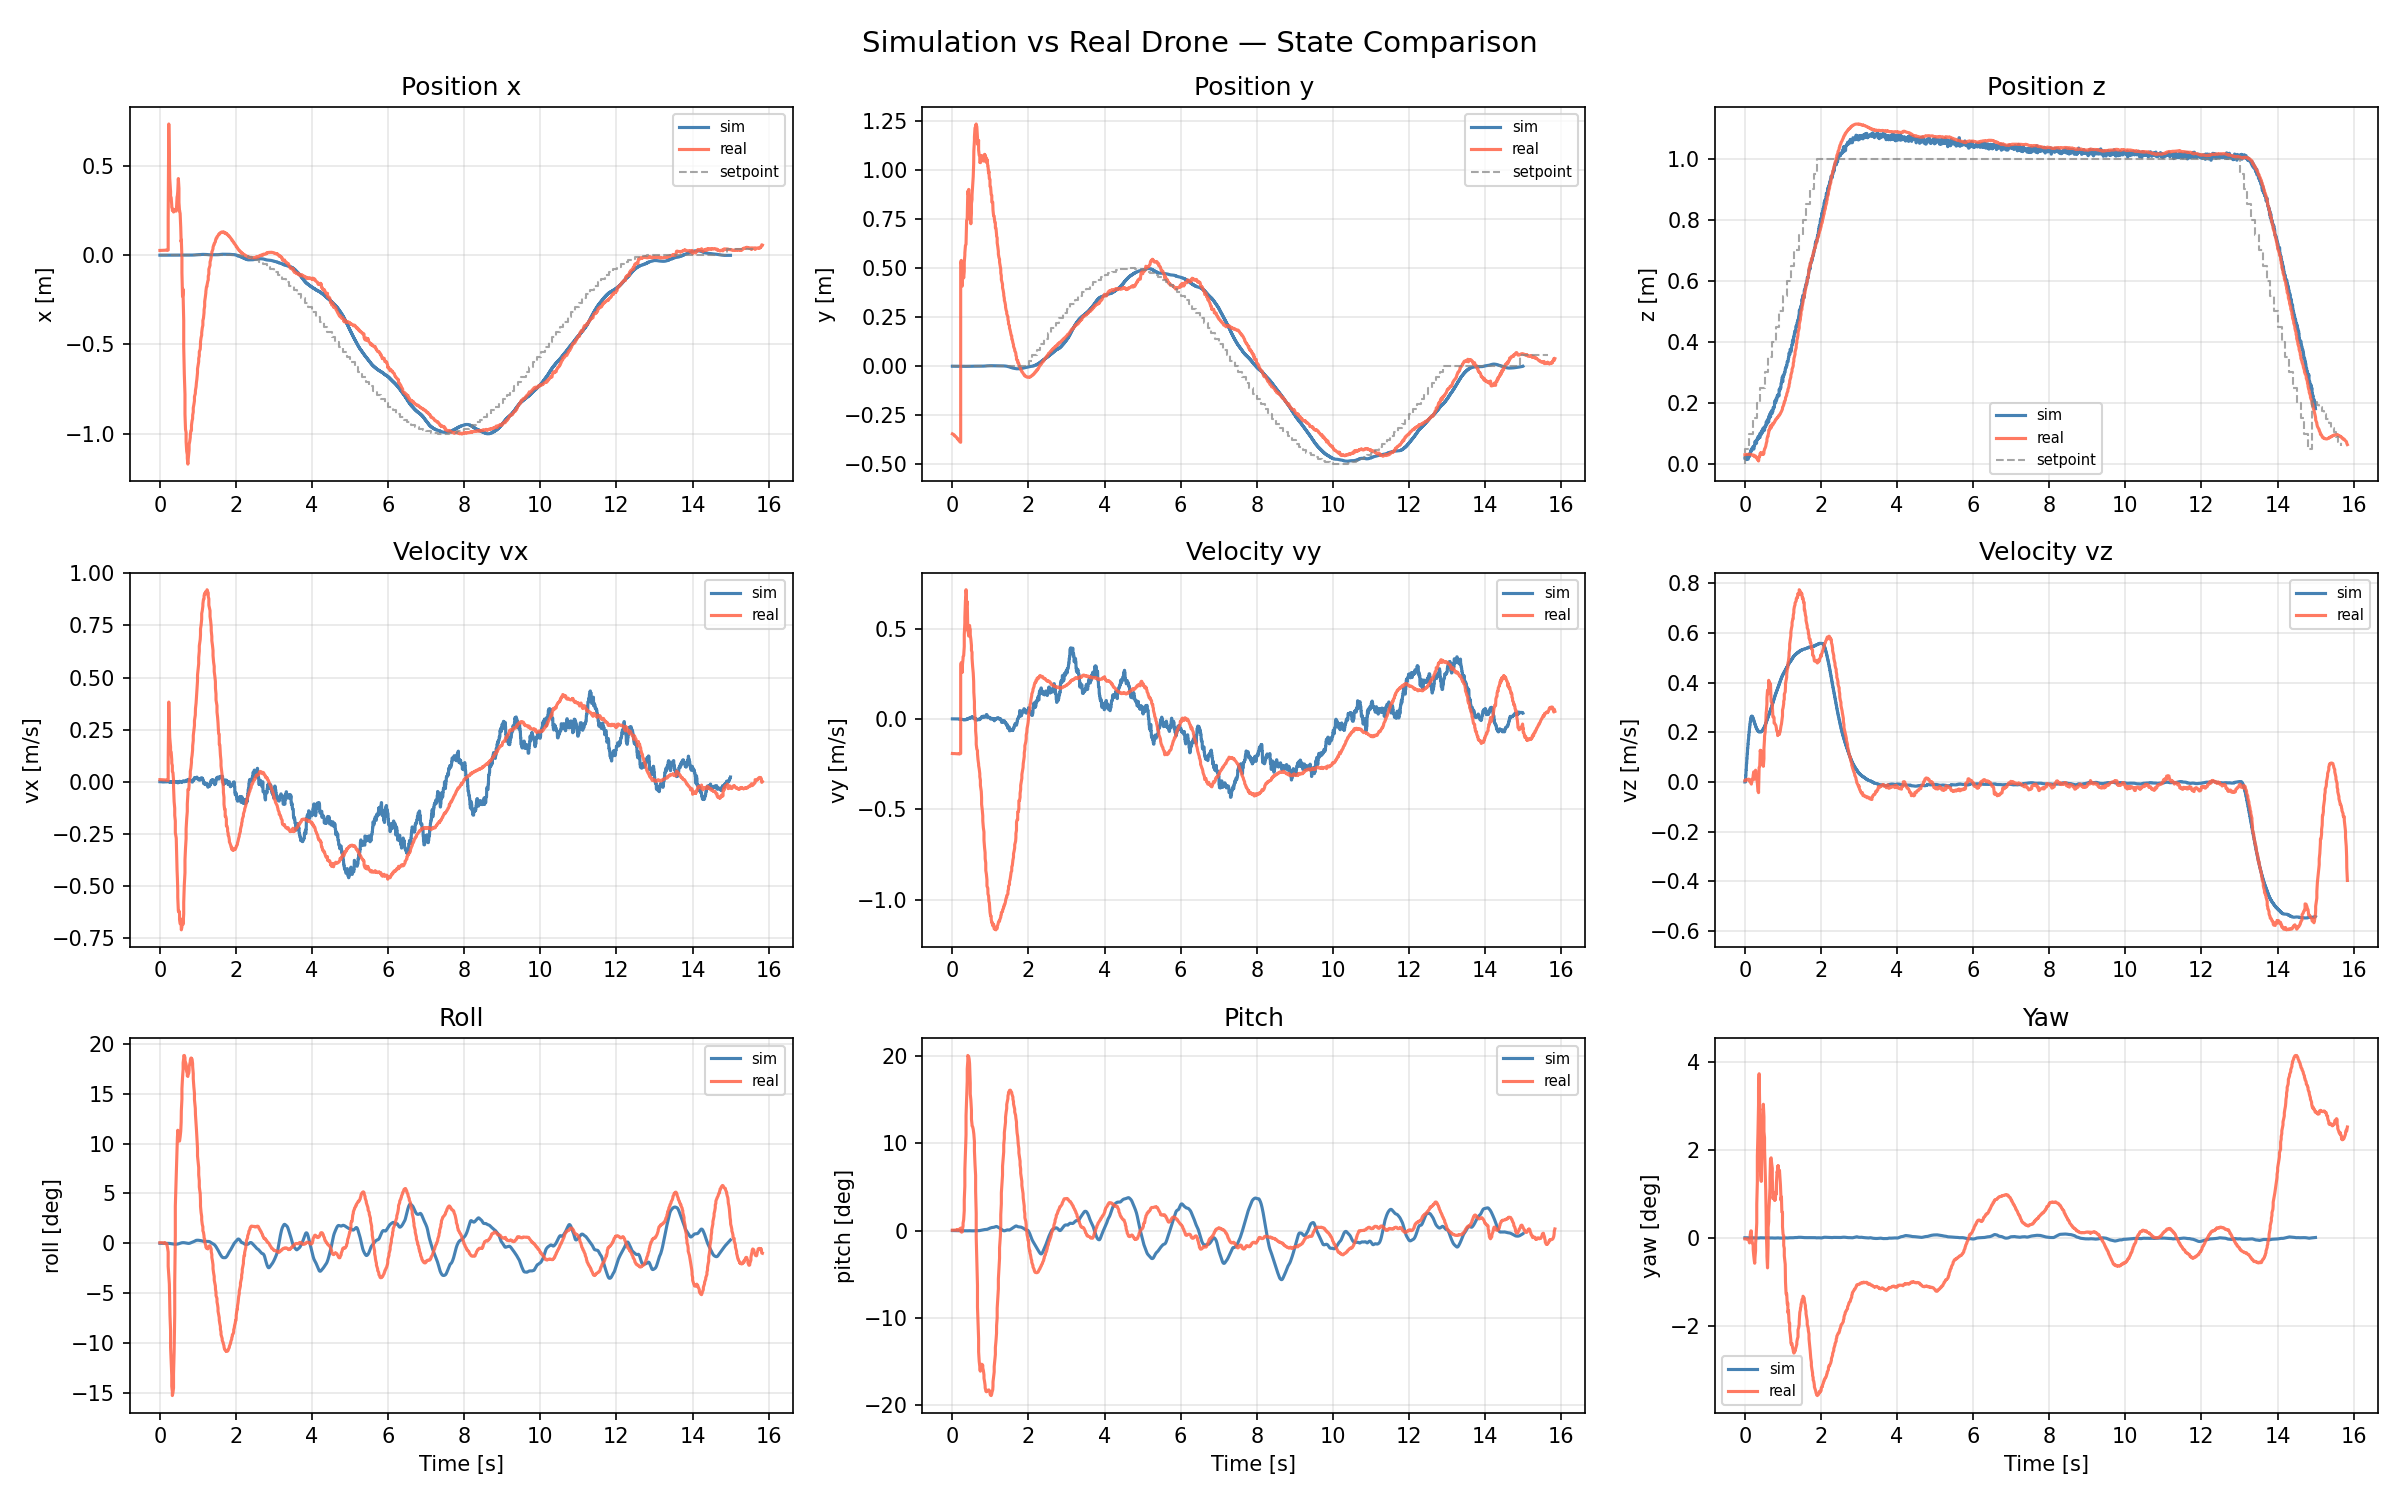
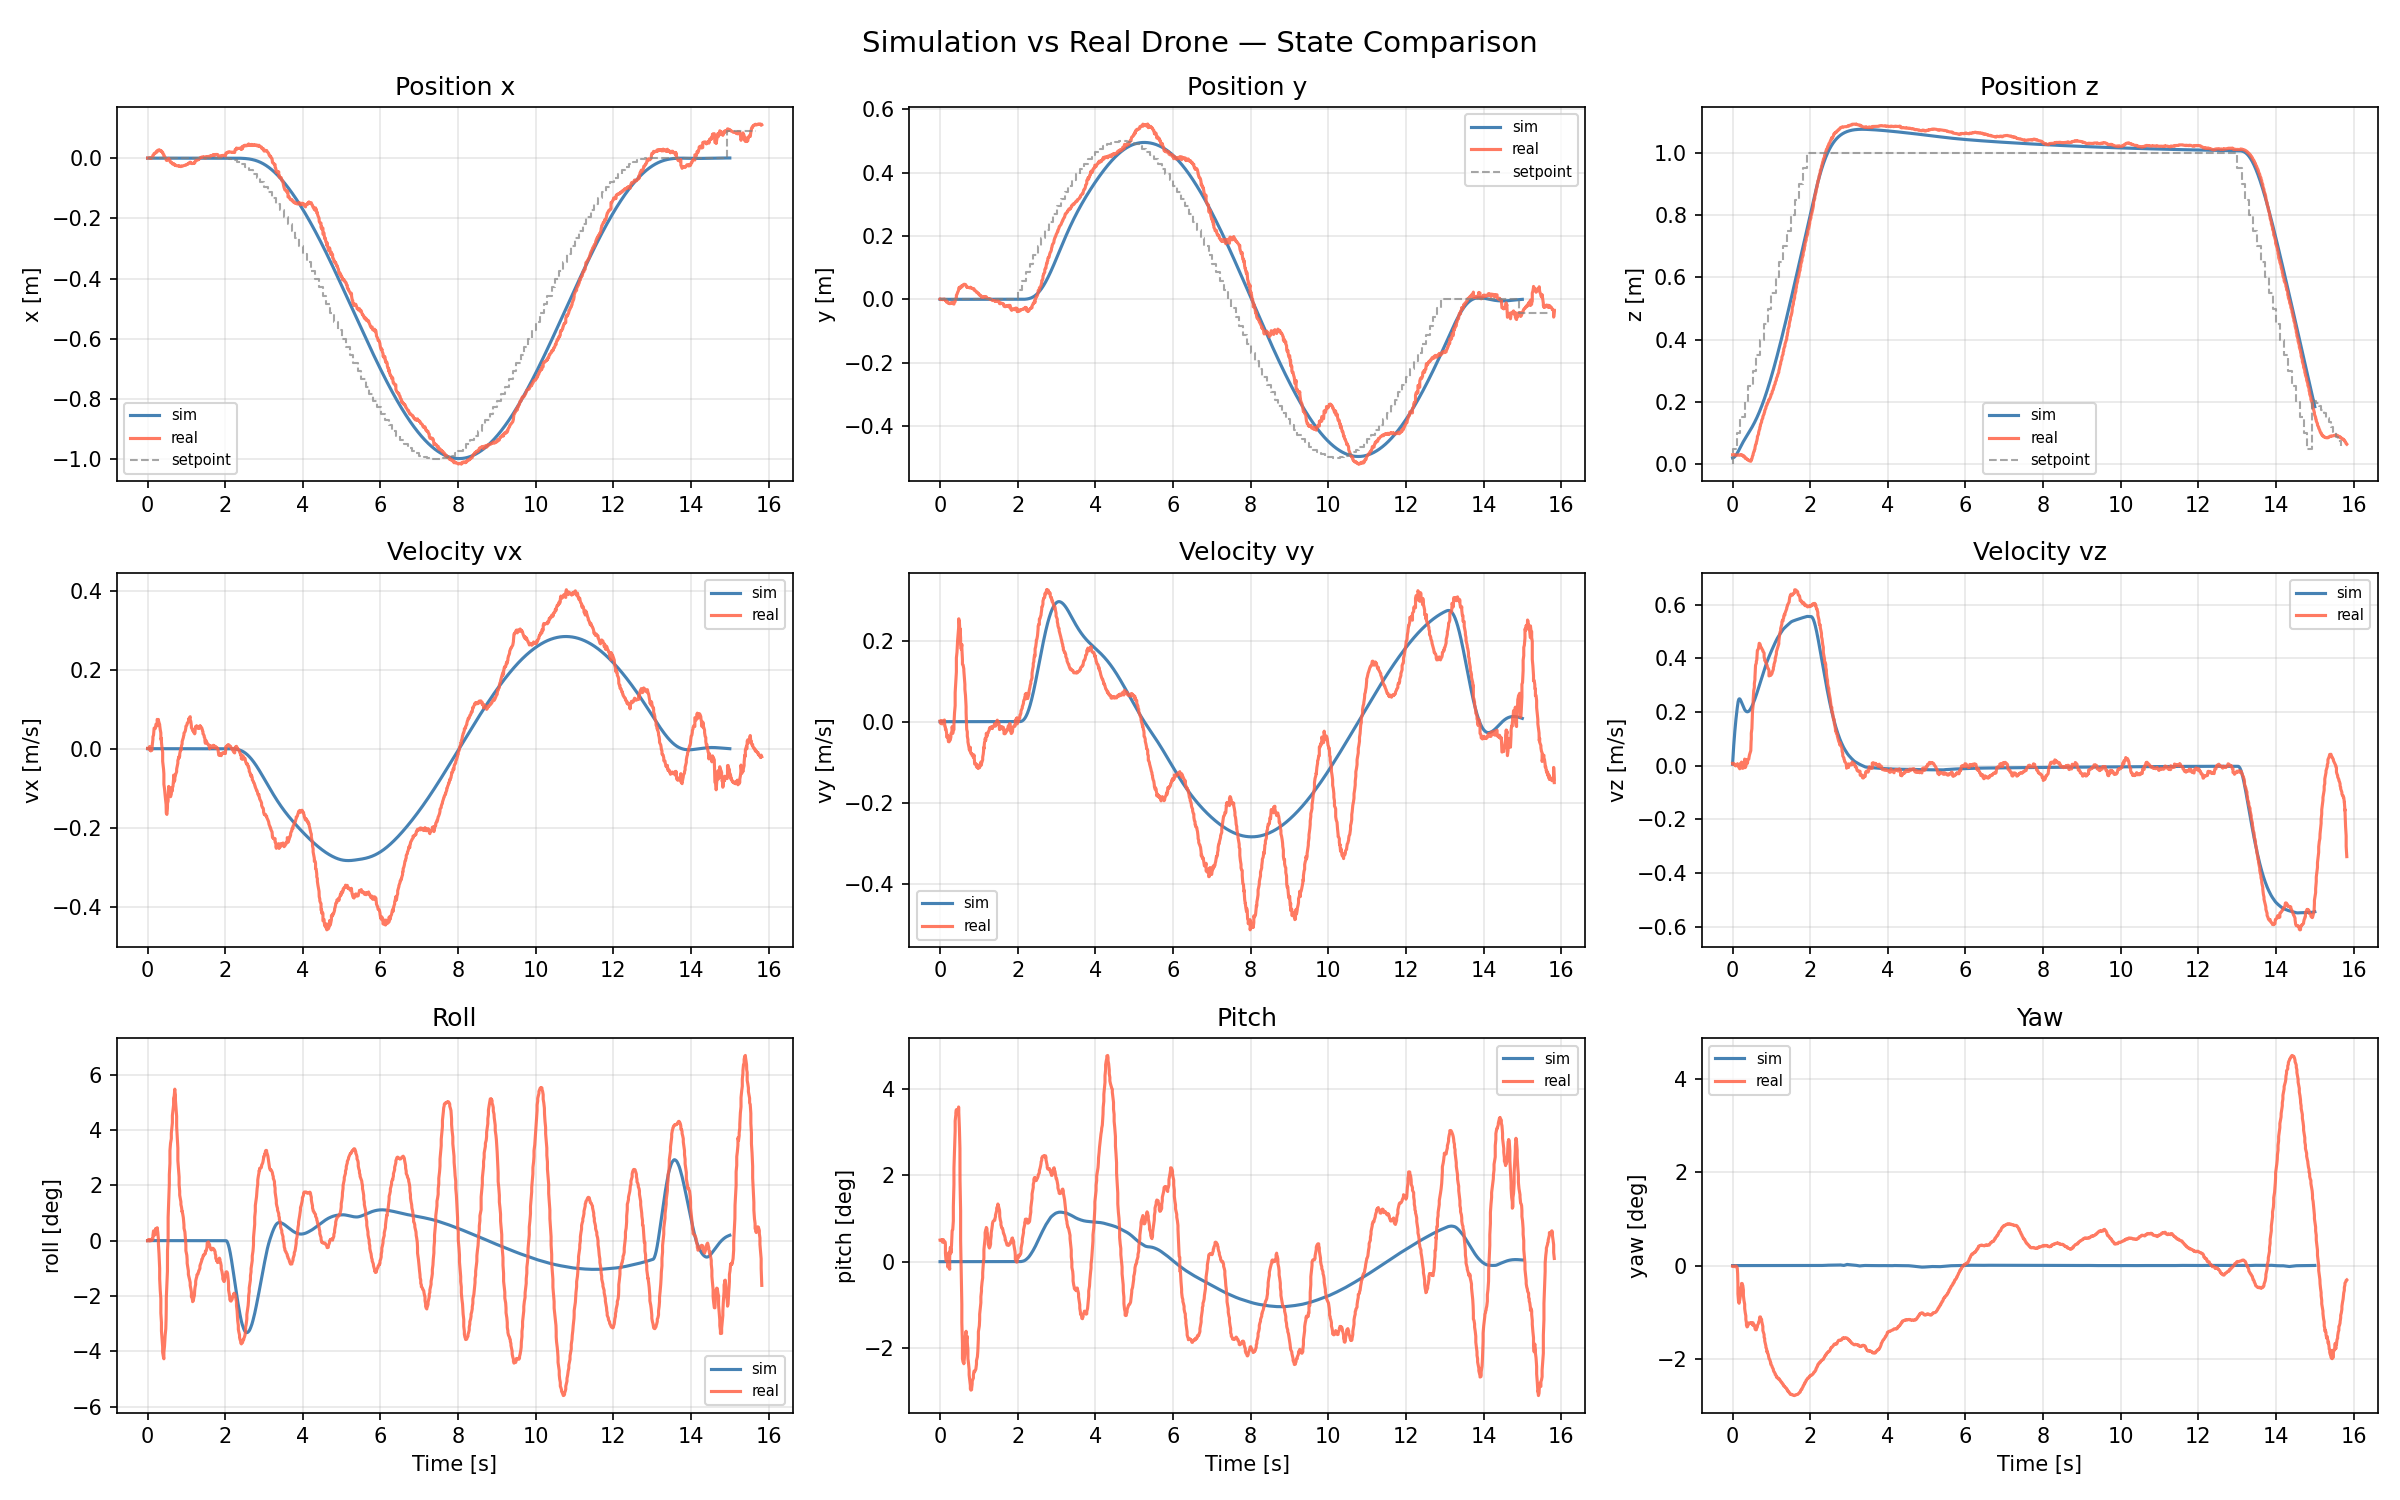
removed noise in the simu and tried to tune the PID on a new plot

diff --git a/cf_firmware_pid_sim.py b/cf_firmware_pid_sim.py
@@ -1695,7 +1695,7 @@ def run_real(mode, uri="radio://0/80/2M/E7E7E7E7E7",
             if HAS_PYBULLET_DRONES:
                 sim_data = run_sim(duration_sec=duration_sec, gui=False,
                                    hover_height=hover_height, radius=radius, plot=False,
-                                   simulate_flow_deck=True)
+                                   simulate_flow_deck=False)
                 _plot_comparison(real_data, sim_data)
             else:
                 print("[REAL] pybullet-drones not found — skipping comparison plot.")
